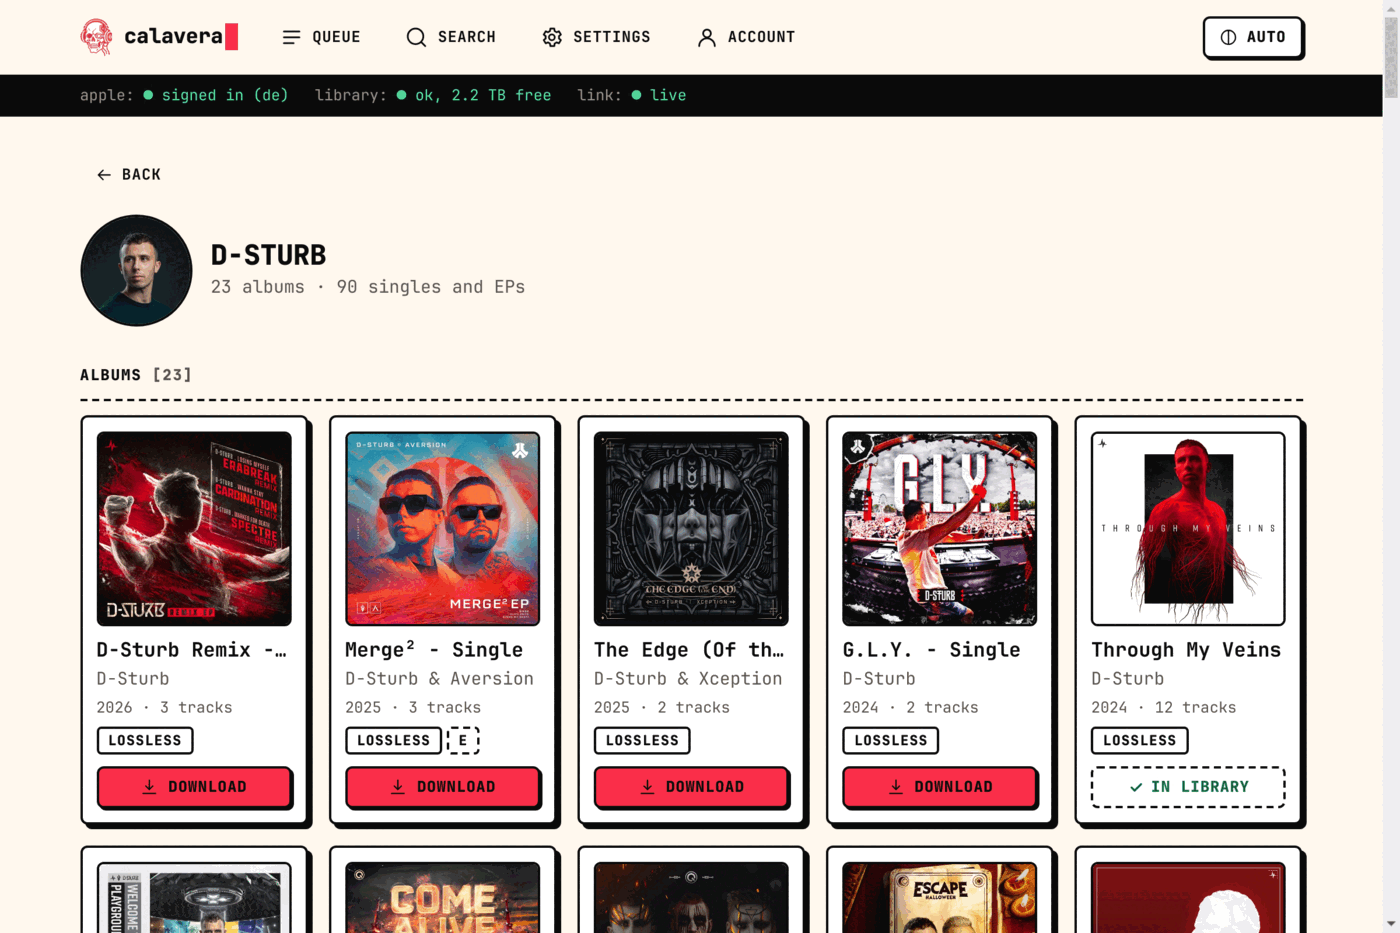
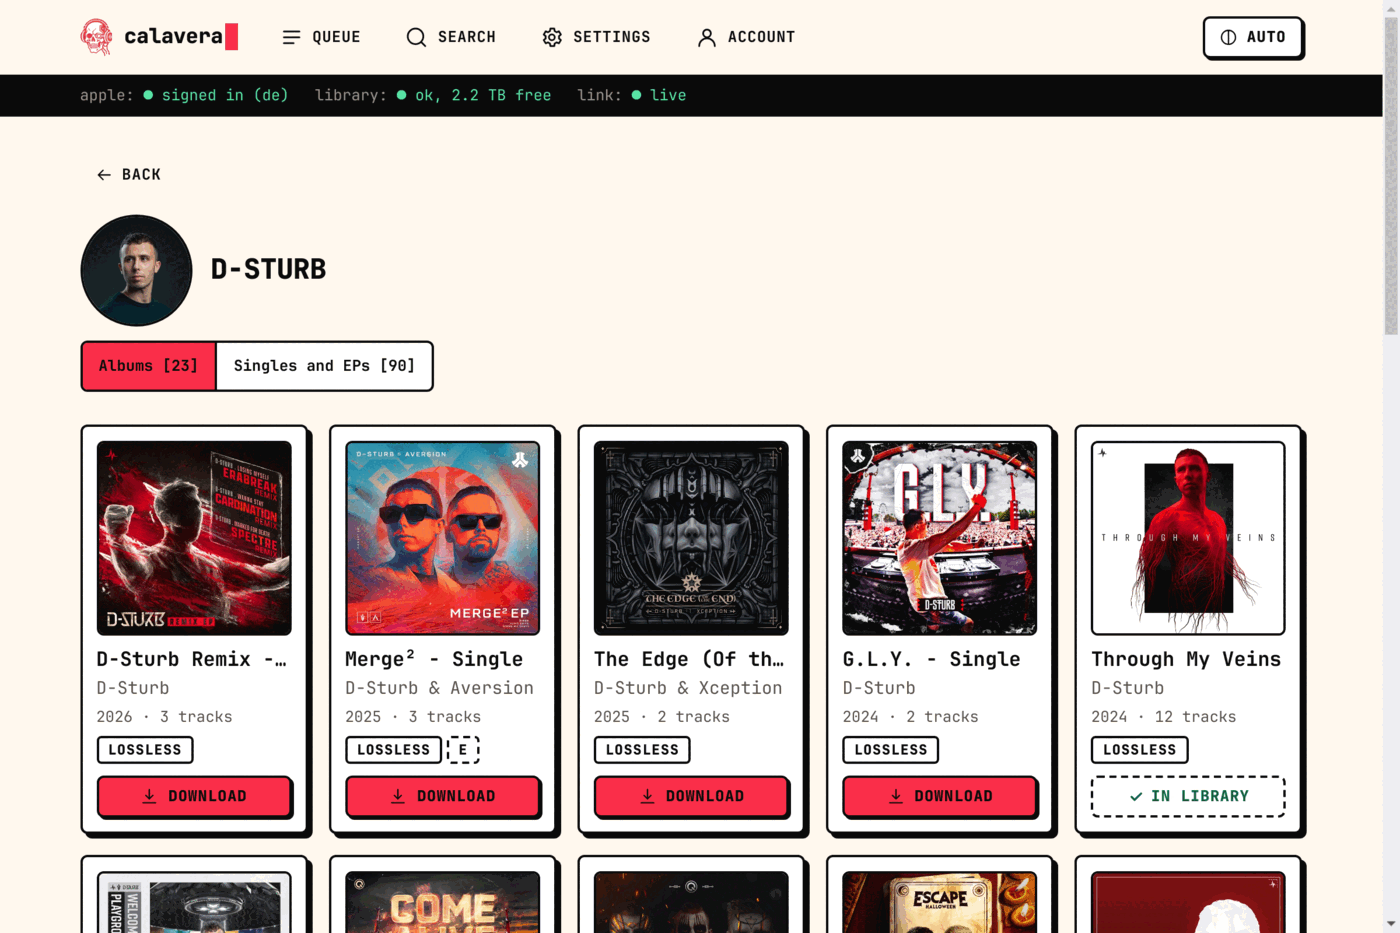
README: badges, updating Calavera, remembered pages; new screenshots
Drops the status note; where Calavera is developed and used is now part
of Known limits. Segments are 44 px tall on touch devices.

diff --git a/app/frontend/src/styles.css b/app/frontend/src/styles.css
@@ -645,7 +645,8 @@ textarea {
 
 /* Fingers need bigger targets than pointers. */
 @media (pointer: coarse) {
-  .button-small {
+  .button-small,
+  .segmented label {
     min-height: var(--tap);
   }
 }

diff --git a/README.md b/README.md
@@ -1,5 +1,9 @@
 # Calavera
 
+[![CI](https://github.com/killparty/calavera/actions/workflows/ci.yml/badge.svg)](https://github.com/killparty/calavera/actions/workflows/ci.yml)
+[![Release](https://img.shields.io/github/v/release/killparty/calavera)](https://github.com/killparty/calavera/releases/latest)
+[![Licence](https://img.shields.io/github/license/killparty/calavera)](LICENSE)
+
 A small, self-hosted web UI that downloads albums and songs from Apple Music
 into your own music library as FLAC.
 
@@ -9,13 +13,9 @@ original, and files it under `Artist/Album/` in your library without ever
 overwriting what is already there.
 
 <p>
-  <img src="docs/screenshots/artist-light.png" alt="Calavera's artist page in the light theme: an artist's albums, each with its quality and a download button, one marked as in the library" width="560">
-  <img src="docs/screenshots/album-dark.png" alt="Calavera's album page on a phone in the dark theme: the songs of an album with checkboxes and a download button" width="200">
+  <img src="docs/screenshots/artist-light.png" alt="Calavera's artist page in the light theme: an artist's albums, with a switch to the singles and EPs; each album has its quality and a download button, one is marked as in the library" width="560">
+  <img src="docs/screenshots/album-dark.png" alt="Calavera's album page on a phone in the dark theme: an album with its quality in numbers, its songs with checkboxes, and a download button" width="200">
 </p>
-
-> **Status:** early (0.3.0), a personal project shared as it is. It runs
-> daily on one Debian 12 host and has not been tested elsewhere. See
-> [Known limits](#known-limits).
 
 ## Before you use it
 
@@ -133,7 +133,12 @@ the 6-digit code.
   instead.
 - **Search:** type an artist, album or song, or paste a link. *In library*
   marks albums whose folder already exists. Tap a cover or title to open the
-  album.
+  album, an artist's name to open the artist's page. There, a switch shows
+  either the albums or the singles and EPs.
+- **Getting the latest from Apple:** pages you return to are remembered for
+  a while (a search or an artist page for 15 minutes, an album for an hour)
+  instead of asked for again. Reloading the page in your browser, or
+  pressing *Search*, asks Apple afresh.
 - **Album page:** every song with a checkbox. Everything downloadable starts
   selected; untick what you do not want. Songs that are not available or are
   already in your library cannot be ticked and say why.
@@ -193,7 +198,24 @@ volume), the queue, history and settings (`data/calavera.db`).
 `docker compose down -v` deletes the Apple session (you would have to sign in
 again).
 
-### Updating
+### Updating Calavera
+
+New versions are listed under
+[Releases](https://github.com/killparty/calavera/releases). In the folder
+you cloned:
+
+```bash
+git pull
+docker compose build
+docker compose up -d
+```
+
+Your `.env`, the Apple session, the queue, history and settings are kept.
+A download that is running is interrupted by the restart; *Retry* runs it
+again. To stay on a particular version instead of the latest state, use
+`git checkout v0.4.0` (for example) in place of `git pull`.
+
+### Updating the pinned components
 
 Versions are pinned in `compose.yaml` and `app/Dockerfile`:
 
@@ -248,7 +270,9 @@ things in it watch for updates:
   `app/backend/calavera/catalog.py` is updated; downloads by link keep working.
 - wrapper-lite needs three relaxed Docker security options (see
   `compose.yaml`). It does not run privileged.
-- Not tested: rootless Docker, Podman, SELinux hosts, ARM.
+- Developed and in daily use on Debian 12 with Docker Engine. Other Linux
+  distributions should work but are untested, as are rootless Docker,
+  Podman, SELinux hosts and ARM.
 
 ## Development
 
